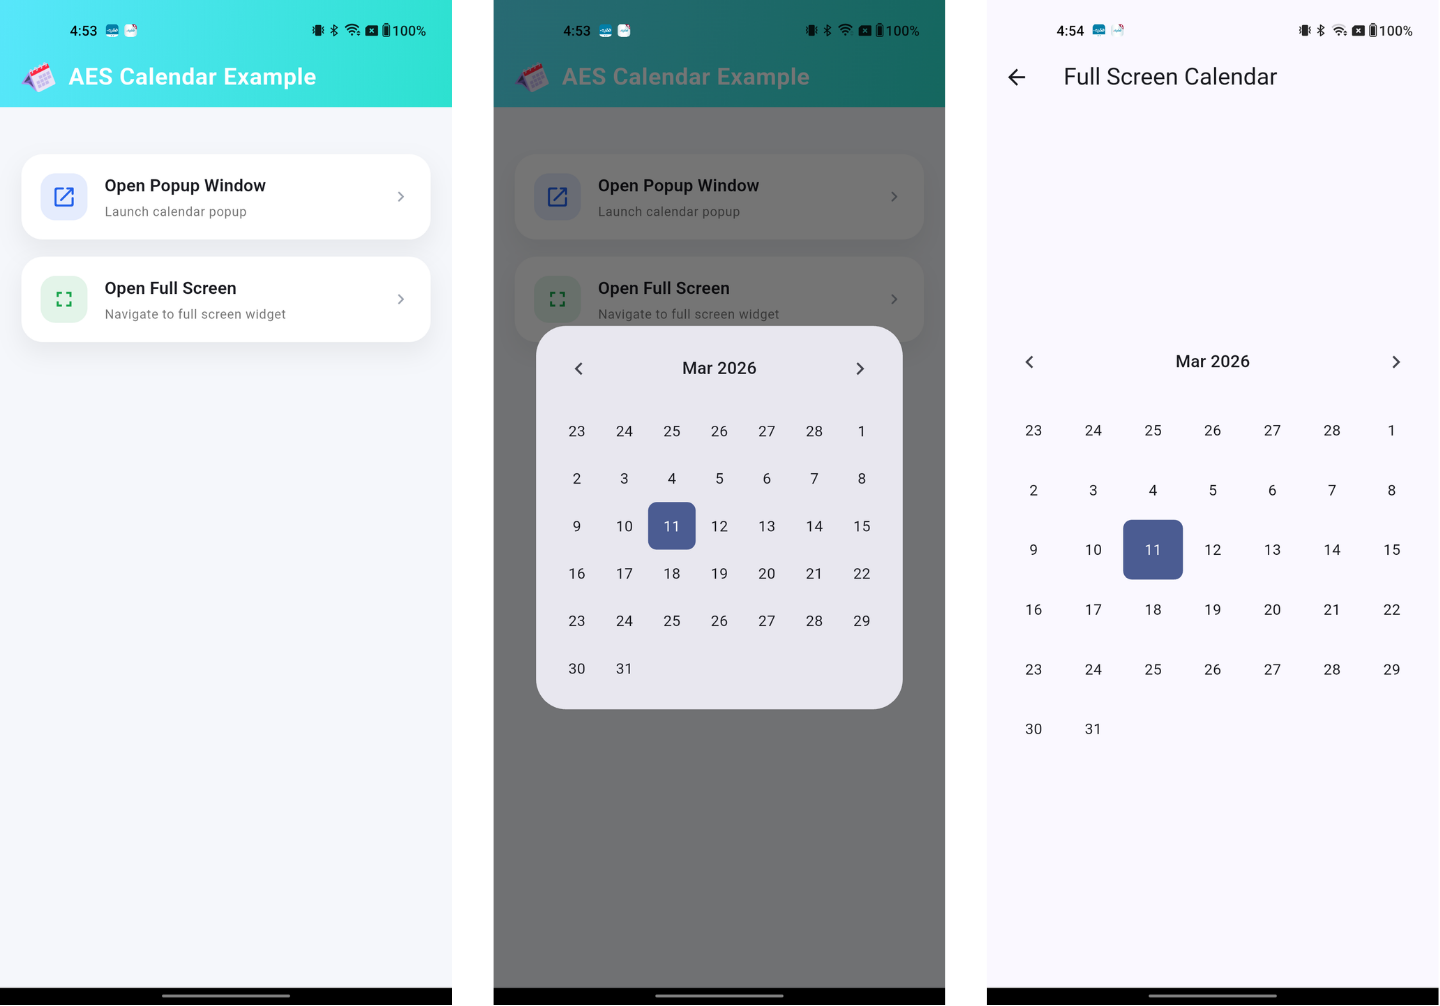
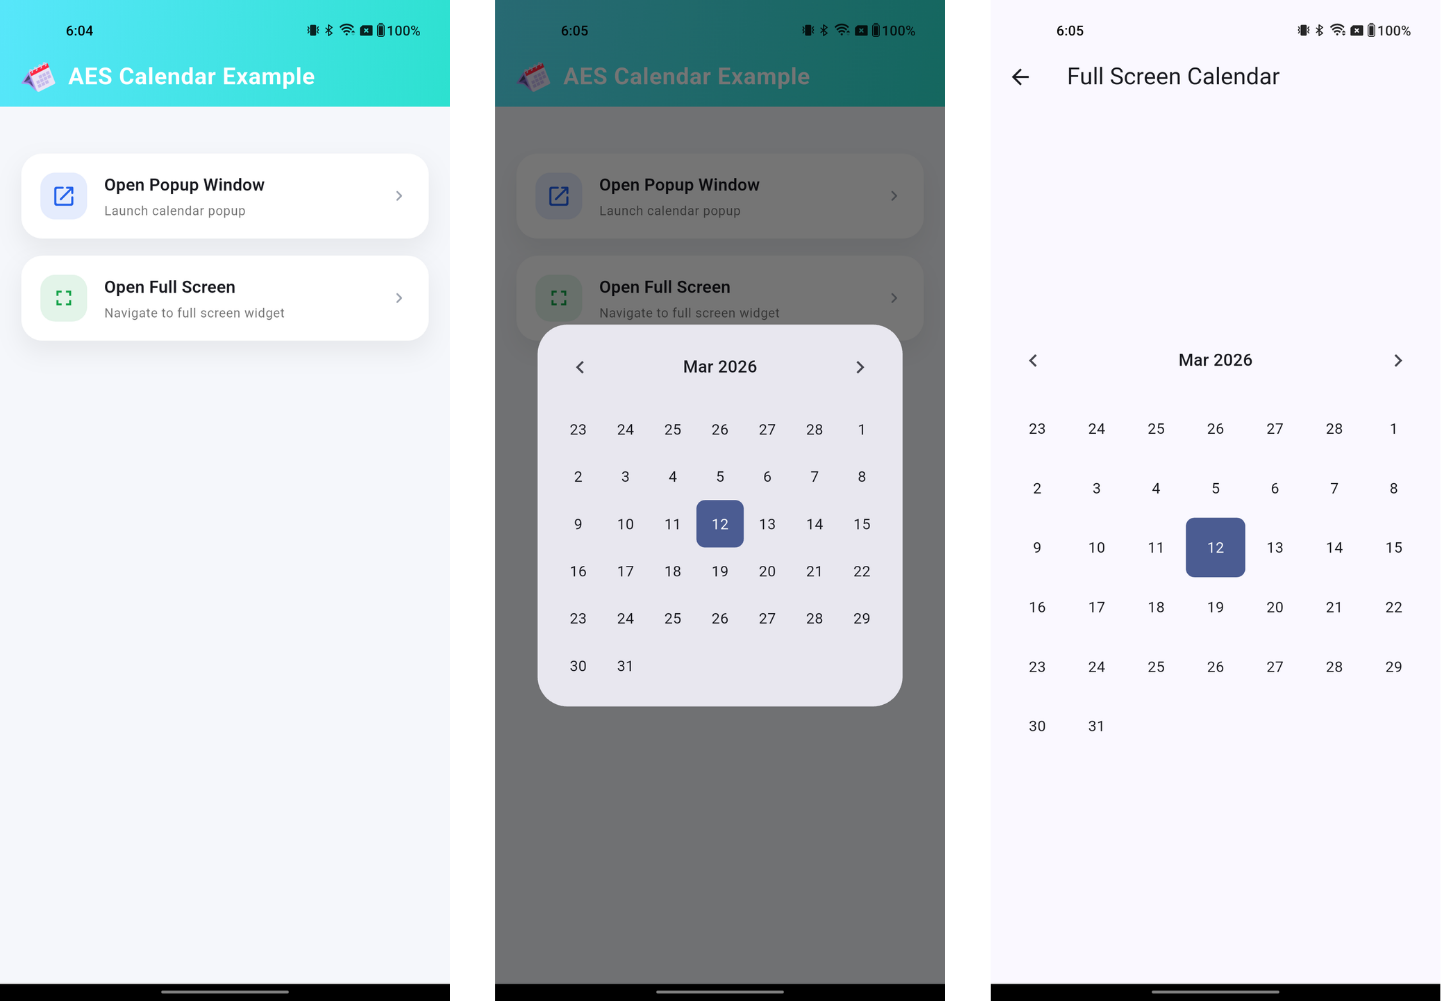
updated read me

diff --git a/README.md b/README.md
@@ -1,5 +1,8 @@
 # aes_calendar
 
+[![pub package](https://img.shields.io/pub/v/aes_calendar.svg)](https://pub.dev/packages/aes_calendar)
+[![license](https://img.shields.io/badge/license-MIT-blue.svg)](https://opensource.org/licenses/MIT)
+
 A customizable and lightweight Flutter calendar widget with:
 
 - Dialog popup mode
@@ -37,8 +40,10 @@ Add the dependency in your `pubspec.yaml`:
 
 ```yaml
 dependencies:
-  aes_calendar: ^0.0.1
+  aes_calendar: ^0.0.7
 ```
+
+Check [pub.dev](https://pub.dev/packages/aes_calendar) for the latest version.
 
 Then run:
 
@@ -205,6 +210,14 @@ To run it locally:
 cd example
 flutter run
 ```
+
+---
+
+## 📌 Version
+
+Current version: **0.0.6**
+
+See [CHANGELOG.md](CHANGELOG.md) for release history and changes.
 
 ---
 

diff --git a/CHANGELOG.md b/CHANGELOG.md
@@ -1,21 +1,14 @@
-## 0.0.6
+## 0.0.7
 
 ### 📄 Documentation
-- Updated sample images in README (screenshots for home, dialog, and full-screen example)
-- Updated URLs in documentation
-
-## 0.0.5
-
-### 📄 Documentation
-- Updated sample images in README (screenshots for home, dialog, and full-screen example)
-- Updated URLs in documentation
+- Refreshed README preview images (home, dialog, full-screen screenshots)
 
 ---
-## 0.0.4
+
+## 0.0.6 · 0.0.5 · 0.0.4
 
 ### 📄 Documentation
-- Updated sample images in README (screenshots for home, dialog, and full-screen example)
-- Updated URLs in documentation
+- Sample images and URLs in README updated across these releases
 
 ---
 
